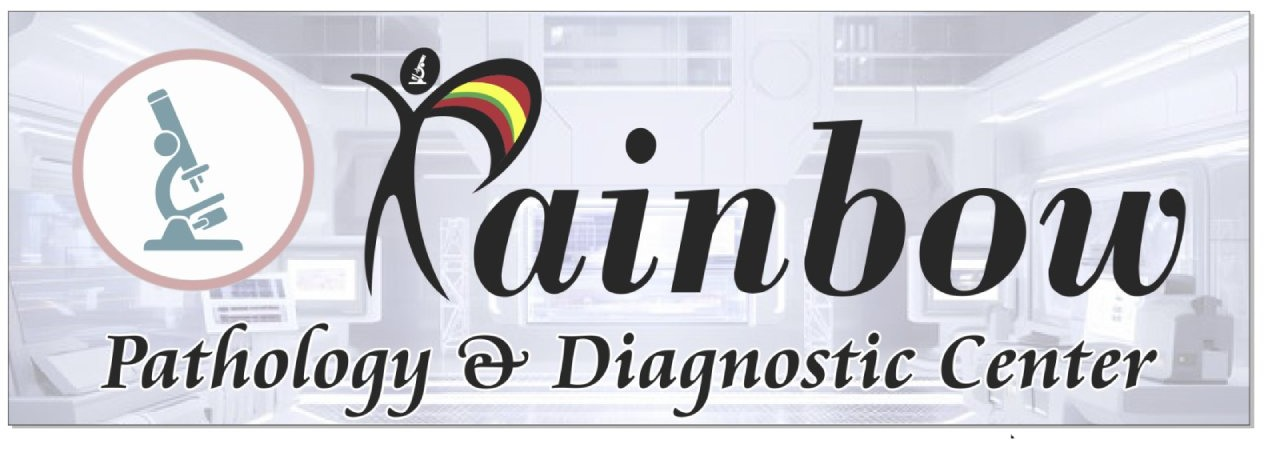
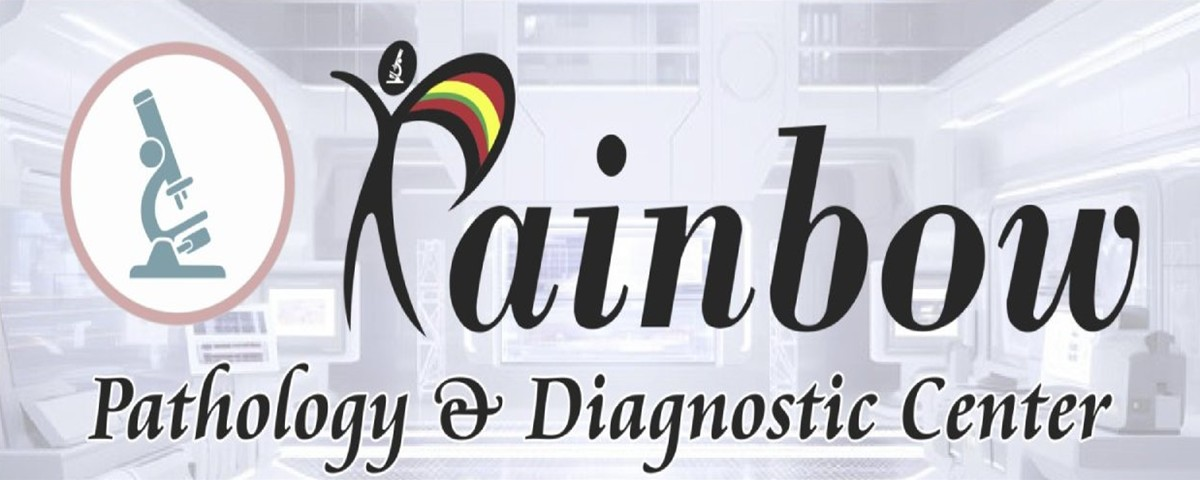
w

diff --git a/src/components/CenterCard.jsx b/src/components/CenterCard.jsx
@@ -2,7 +2,7 @@ export default function CenterCard({ center }) {
   return (
     <article className="overflow-hidden rounded-2xl border border-slate-200 bg-white">
       <div className="flex aspect-[5/2] items-center justify-center bg-white">
-        <img src={center.image} alt="" className="h-full w-full object-contain" />
+        <img src={center.image} alt="" className="h-full w-full object-cover" />
       </div>
       <div className="flex h-28 flex-col bg-[#122a66] px-4 py-3 text-white">
         <h3 className="line-clamp-1 text-base font-extrabold leading-tight">{center.name}</h3>
